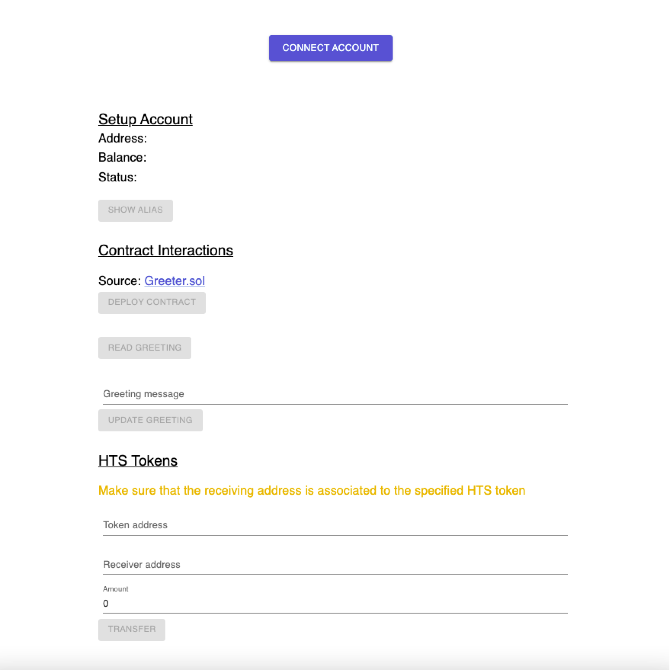
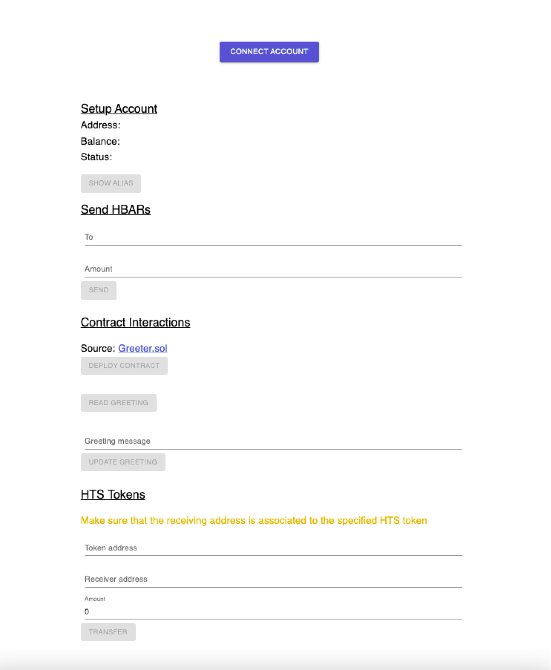
test the ci

Changed region(s): [[0.1234, 0.1493, 0.8022, 0.9552], [0.3702, 0.0299, 0.5862, 0.1194]]

diff --git a/dapp-example/tests/support/bootstrap.js b/dapp-example/tests/support/bootstrap.js
@@ -23,8 +23,8 @@ const client = HederaSDK.Client
 
 const createAccountFromCompressedPublicKey = async function(compressedPublicKey) {
   const transferTransaction = await (new HederaSDK.TransferTransaction()
-    .addHbarTransfer(HederaSDK.PublicKey.fromString(compressedPublicKey).toAccountId(0, 0), new HederaSDK.Hbar(1000))
-    .addHbarTransfer(HederaSDK.AccountId.fromString(process.env.OPERATOR_ID_MAIN), new HederaSDK.Hbar(-1000)))
+    .addHbarTransfer(HederaSDK.PublicKey.fromString(compressedPublicKey).toAccountId(0, 0), new HederaSDK.Hbar(100))
+    .addHbarTransfer(HederaSDK.AccountId.fromString(process.env.OPERATOR_ID_MAIN), new HederaSDK.Hbar(-100)))
     .execute(client);
 
   const txTransaction = await (new HederaSDK.TransactionRecordQuery()

diff --git a/dapp-example/README.md b/dapp-example/README.md
@@ -12,13 +12,13 @@ You must have running:
 In the project directory, you can run:
 
 1. Run `npm install`
-2. Run `npm start`
+2. Run `npm run bootstrap` - only once to setup accounts, tokens etc.
+2. Run `npm run start`
 
 Dapp should be available at [http://localhost:3000](http://localhost:3000)
 
 ## Integration Tests
-1. Run `npm run test`
-2. Configure .env file
+1. Configure .env file
 ```
 NETWORK_NAME=           # name of the network to be added in metamask
 RPC_URL=                # the url of RPC Relay
@@ -28,6 +28,8 @@ IS_TESTNET=             # is public testnet
 PRIVATE_KEY=            # private key of the main account
 RECEIVER_PRIVATE_KEY=   # private key of the receiver account
 ```
+2. Run `npm run bootstrap`
+3. Run `npm run test`
 
 Available operations:
 - [x] Connect with Metamask
@@ -40,6 +42,7 @@ Available operations:
 - [x] View greet message
 - [x] Update greet message
 - [x] Transfer HTS token to address
+- [x] Transfer HBAR tokens
 
 ## Screenshots
 ![alt text](./screenshot1.png "")
